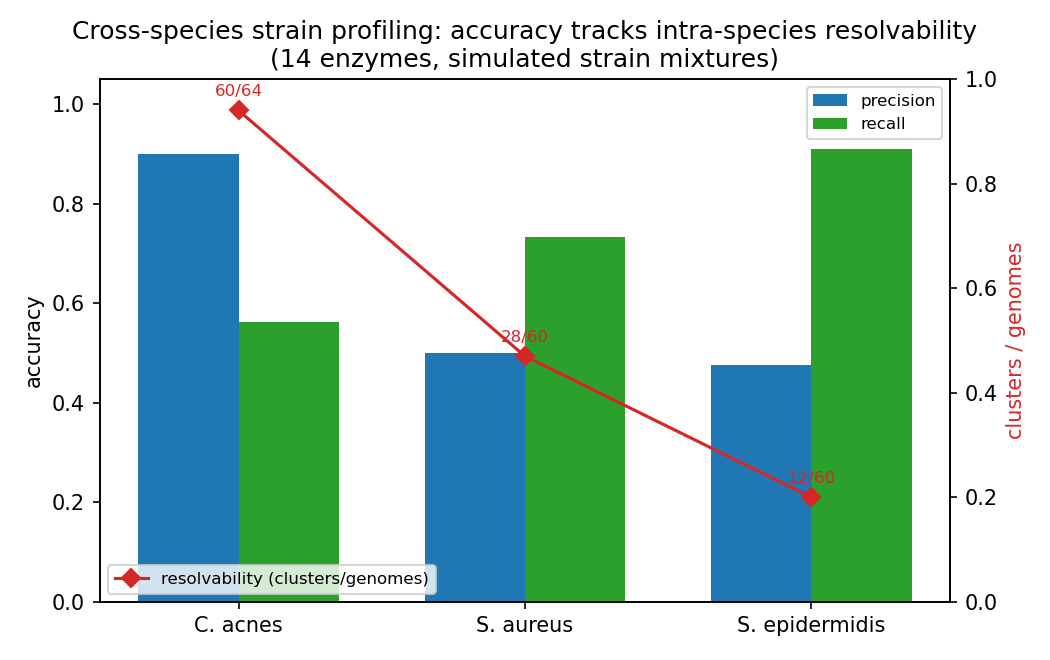
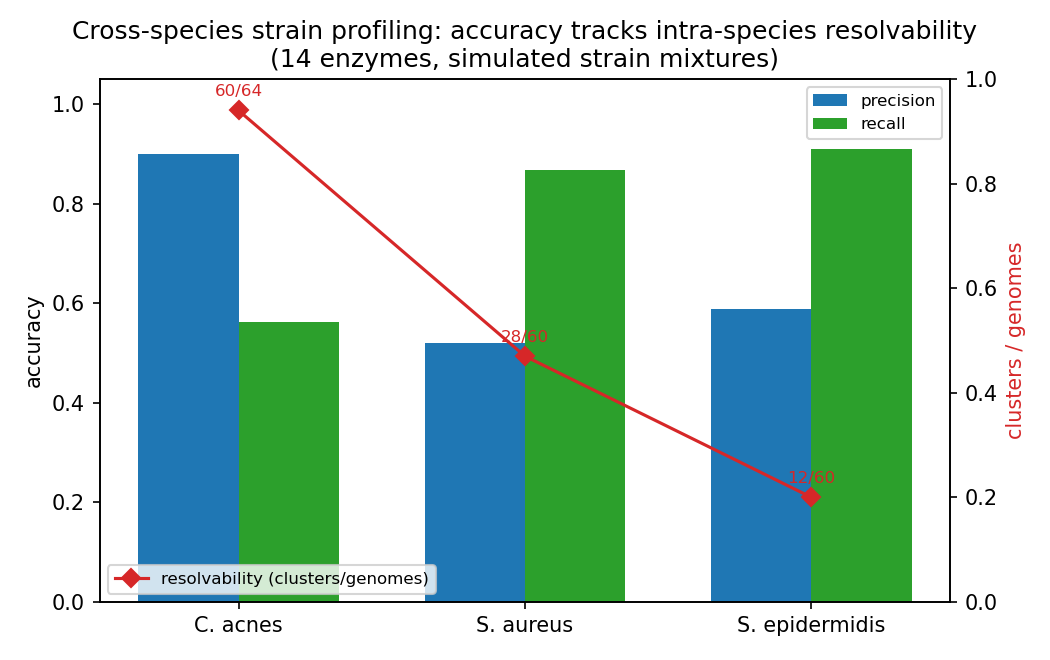
Refresh cross-species results with occurrence-based uniqueness
Updated results/cross_species.tsv + figure + docs + README: S. epidermidis precision
0.48->0.59 and Bray-Curtis 0.80->0.37, S. aureus recall 0.73->0.87, C. acnes unchanged (0.90).
Documents the single-copy-filter-asymmetry root cause and the occurrence-based-uniqueness fix.

Changed region(s): [[0.4876, 0.2424, 0.6095, 0.3636], [0.6705, 0.4545, 0.7924, 0.5758], [0.3962, 0.5152, 0.5181, 0.5455]]

diff --git a/docs/cross_species.md b/docs/cross_species.md
@@ -10,8 +10,10 @@ depth ≥1×, matching the *C. acnes* design). `results/cross_species.tsv`, `fig
 | species | genomes | clusters | clusters/genomes | strain-specific markers | precision | recall | Bray–Curtis |
 |---|---|---|---|---|---|---|---|
 | *C. acnes* | 64 | **60** | **0.94** | 18,566 | **0.90** | 0.56 | 0.25 |
-| *S. aureus* | 60 | 28 | 0.47 | 20,258 | 0.50 | 0.73 | 0.58 |
-| *S. epidermidis* | 60 | **12** | **0.20** | 5,856 | 0.48 | 0.91 | 0.80 |
+| *S. aureus* | 60 | 28 | 0.47 | 20,258 | 0.52 | 0.87 | 0.59 |
+| *S. epidermidis* | 60 | **12** | **0.20** | 5,856 | 0.59 | 0.91 | 0.37 |
+
+*(with occurrence-based uniqueness — see below.)*
 
 ## The key axis: intra-species resolvability
 
@@ -21,13 +23,21 @@ whereas *S. epidermidis* strains are so similar that 60 genomes collapse into **
 This is a real biological property of each species, not a method artifact — no marker method
 can resolve strains that are near-identical.
 
-**Precision tracks resolvability** (0.90 → 0.50 → 0.48 as clusters/genomes falls 0.94 → 0.20).
-In heavily-clustered, low-diversity species the simple Layer-2 **over-detects**: because unique
-markers are scarce and clusters are large, reads from a present strain can match a small
-fraction of a *different* large cluster's "unique" markers (single-copy-filter asymmetry under
-high similarity), producing false positives and inflated abundance error. A coverage-fraction
-gate (`--min-coverage`, default 0.1) removes the most egregious cases (S. aureus precision
-0.40→0.50, S. epidermidis 0.37→0.48; *C. acnes* unchanged) but does not fully solve it.
+**Precision tracks resolvability** (0.90 → 0.52 → 0.59 as clusters/genomes falls 0.94 → 0.20).
+In heavily-clustered, low-diversity species the profiler tends to **over-detect**: reads from a
+present strain can match a *different* large cluster's markers. We traced the dominant cause to
+**single-copy-filter asymmetry** — a tag single-copy in cluster A but multi-copy (hence
+single-copy-filtered) in cluster B's genomes was labelled "unique to A" yet is still produced
+by B's reads. Two fixes were added, in order of impact:
+- **Occurrence-based uniqueness** (a marker is unique iff it occurs *at any copy number* in
+  exactly one cluster's genomes) removes these false-unique markers at the detection step. It
+  is the main lever: *S. epidermidis* precision 0.48→**0.59** and Bray–Curtis 0.80→**0.37**,
+  *S. aureus* recall 0.73→**0.87**, with *C. acnes* unchanged (P=0.90).
+- A **coverage-fraction gate** (`--min-coverage`, default 0.1) additionally removes large,
+  similar clusters called at a tiny coverage fraction.
+
+A residual gap remains for the hardest low-diversity cases (precision ≈0.5–0.6), where
+near-identical strains are intrinsically ambiguous from short reads.
 
 ## What this means for the manuscript
 
@@ -37,10 +47,11 @@ gate (`--min-coverage`, default 0.1) removes the most egregious cases (S. aureus
 2. **Resolvability is a species property, reported honestly.** `clusters/genomes` (and the
    `NOT DOABLE` verdict) tell the user, per species, how fine a resolution the data support —
    consistent with "not all species are strain-resolvable."
-3. **Low-diversity species need overlap-aware deconvolution.** The over-detection on
-   *S. epidermidis*/*S. aureus* is the known hard case that StrainScan addresses with its
-   within-cluster overlap-matrix / lasso Layer-2. Porting that (beyond the current
-   detect-and-depth Layer-2) is the clear next step to lift precision on similar-strain species.
+3. **Low-diversity species are partly rescued by occurrence-based uniqueness**, which lifts
+   precision/abundance on *S. epidermidis*/*S. aureus* at no cost to *C. acnes*. The residual
+   gap (precision ≈0.5–0.6) is the known hard case that StrainScan tackles with a within-cluster
+   overlap-matrix / lasso Layer-2; adding a full overlap-aware deconvolution on top of
+   occurrence-based uniqueness is the remaining step for near-identical strains.
 
 ## Reproduce
 ```bash

diff --git a/README.md b/README.md
@@ -78,7 +78,9 @@ make gate-sweep   # accuracy vs Layer-1 species gate
   with no accuracy gain (14: precision 0.90). Enzyme count trades efficiency ↔ resolution.
 - **Cross-species:** accuracy tracks intra-species **resolvability** (clusters/genomes): high
   for diverse *C. acnes* (0.94 → precision 0.90), lower for similar-strain *S. epidermidis*
-  (0.20 → precision 0.48). Low-diversity species need overlap-aware deconvolution.
+  (0.20 → precision 0.59). Occurrence-based uniqueness (a marker unique iff present at any copy
+  in one cluster) lifts similar-strain precision/abundance; a residual gap needs overlap-aware
+  deconvolution.
 
 ## Notes
 - Committed scripts are the exact ones used (paths parameterized via `$WORKDIR` /